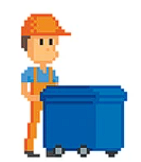
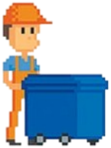
update Eco

diff --git a/Eco.java b/Eco.java
@@ -15,9 +15,11 @@ public class Eco extends Actor
     public void act()
     {
         // Add your action code here.
+        setImage("person.png");
         GreenfootImage image = getImage();
-        image.scale(50, 50);
+        image.scale(50, 65);
         setImage(image);
+        collect();
         if(Greenfoot.isKeyDown("left"))
         {
             move(-2);
@@ -40,7 +42,9 @@ public class Eco extends Actor
     {
         if(isTouching(Trash.class))
         {
-            
+            removeTouching(Trash.class);
+            MyWorld world = (MyWorld)getWorld();
+            world.createTrash();
         }
     }
 }

diff --git a/Trash.java b/Trash.java
@@ -15,7 +15,7 @@ public class Trash extends Actor
     public Trash()
     {
         GreenfootImage image = new GreenfootImage("trash.png");
-        image.scale(50, 50);
+        image.scale(35, 40);
         setImage(image);
     }
     public void act()
